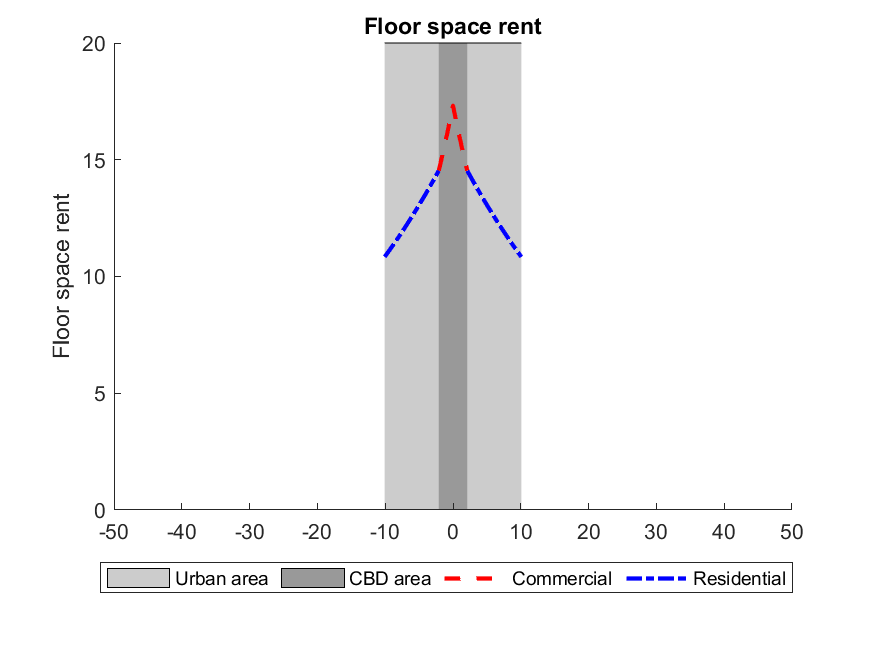
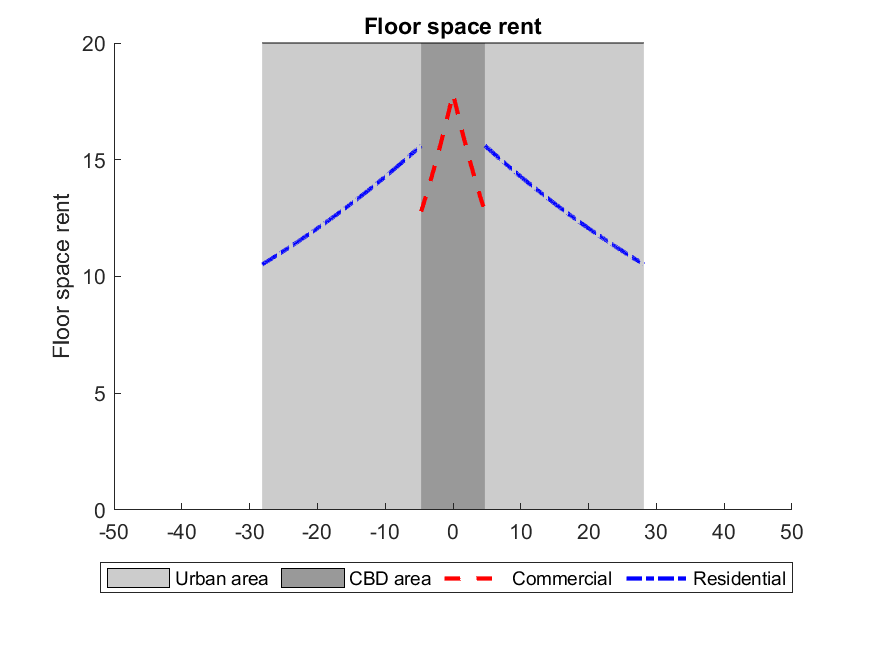
Tut_4_MATLAB Changed parameters to the ones that replicate Tut_3 results

Changed region(s): [[0.2777, 0.061, 0.7406, 0.7927]]

diff --git a/notebooks/Tut_4_MAAAADlab/PS_4.m b/notebooks/Tut_4_MAAAADlab/PS_4.m
@@ -2,29 +2,27 @@
 %% Part a) 
 % The following should simulate the test data, similar to BASE.dta
 
-
-
 % Set up the scalars 
 % Residential  Parameters
 
 alpha_R = 0.66;
 beta_R  = 0.00;
-tau_R   = 0.01;	
-omega_R = 0.1;
-theta_R = 0.5;
-c_R     = 1;		
+tau_R   = 0.005;	
+omega_R = 0.07;
+theta_R = 0.55;
+c_R     = 1.3;		
 a_bar_R = 1	;
-S_bar_R = 999;
+S_bar_R = 20;
 
 % Commercial parameters
 alpha_C = 0.85;
-beta_C  = 0.04;
+beta_C  = 0.03;
 tau_C   = 0.01;
-omega_C = 0.1;
+omega_C = 0.03;
 theta_C = 0.5;
-c_C     = 1;
-a_bar_C = 1.5;
-S_bar_C = 999;
+c_C     = 1.3;
+a_bar_C = 2;
+S_bar_C = 20;
 
 
 % Create the BASE data as a table
@@ -35,7 +33,7 @@ BASE              = table(x);
 BASE.D            = abs(x);
 BASE.y            = 2.5 * ones(height(BASE), 1);
 BASE.L            = 1000000 * ones(height(BASE), 1);
-BASE.r_a          = 100 * ones(height(BASE), 1);
+BASE.r_a          = 50 * ones(height(BASE), 1);
 BASE.a_x_C        = NaN(height(BASE), 1);
 BASE.a_x_R        = NaN(height(BASE), 1);
 BASE.a_rand_C     = 1 * ones(height(BASE), 1);
@@ -61,7 +59,7 @@ BASE.SHADE        = NaN(height(BASE), 1);
 BASE.SHADEU       = NaN(height(BASE), 1);
 
 
-openvar("BASE")
+% openvar("BASE")
 
 %%%%%% End of BASE creation 
 
@@ -80,14 +78,18 @@ params = struct( ...
 
 
 
+
+
+% [BASE,L_hat_demand, L_hat_supply, sL, sy, x0, x1] = SOLVER(BASE, params);
+
 % [BASE,L_hat_demand, L_hat_supply, sL, sy, x0, x1, iter_cnt] = WAGE(BASE, params);
 
 
 
 
-[BASE,L_hat_demand, L_hat_supply, sL, sy, x0, x1, iter_cnt] = FINDEQ(BASE, params);
+[BASE,L_hat_demand, L_hat_supply, sL, sy, x0, x1, obj_lab_table] = FINDEQ(BASE, params);
 
-openvar("BASE");
+ openvar("BASE");
 
 
 %% Plotting 
@@ -96,30 +98,14 @@ thisFolder = pwd;
 disp(thisFolder)
 
 GHEIGHT(BASE);
-saveas(gcf, fullfile(thisFolder, 'GHEIGHT.png'));
+saveas(gcf, fullfile(thisFolder, 'GHEIGHT_whl.png'));
 
 
 GBIDRENT(BASE);
-saveas(gcf, 'GBIDRENT.png');
+saveas(gcf, 'GBIDRENT_whl.png');
 
 GLANDRENT(BASE);
-saveas(gcf, 'GLANDRENT.png');
-
-
-
-
-
-
-
-
-
-
-
-
-
-
-
-
+saveas(gcf, 'GLANDRENT_whl.png');
 
 
 

diff --git a/notebooks/Tut_4_MAAAADlab/FINDEQ.m b/notebooks/Tut_4_MAAAADlab/FINDEQ.m
@@ -11,9 +11,9 @@ while obj_lab > 0.01
 
     % This I would just do bc. stata also does it, from my Understanding can
     % delete this
-    % [BASE,L_hat_demand,L_hat_supply, sL, sy, x0, x1] = SOLVER(BASE, params);
+    [BASE,L_hat_demand,L_hat_supply, sL, sy, x0, x1] = SOLVER(BASE, params);
 
-    [BASE,L_hat_demand, L_hat_supply, sL, sy, x0, x1, iter_cnt] = WAGE(BASE, params);
+    [BASE,L_hat_demand, L_hat_supply, sL, sy, x0, x1, iter_cnt] =    WAGE(BASE, params);
 
 
     % City Sanity check 
@@ -23,7 +23,7 @@ while obj_lab > 0.01
     
     % Update the objective function
     obj_lab = abs( (sL ./ (0.5 .* (L_hat_supply + L_hat_demand))) -1); 
-
+    fprintf('Current objective value (FINDEQ) is %.6f\n', obj_lab);
     % Update guess of total employment with average of old guess and
     % updated demand and supply from model 
     BASE.L = 0.5 .* BASE.L + 0.5*0.5 .* (L_hat_supply + L_hat_demand);

diff --git a/notebooks/Tut_4_MAAAADlab/WAGE.m b/notebooks/Tut_4_MAAAADlab/WAGE.m
@@ -17,7 +17,7 @@ if iter_cnt == 0 && obj_int < 1e-6 % 1e-6 is basically 0, used bc. of floating p
     obj_int = tolerance + 0.2;
 end 
 
-while obj_int > tolerance
+while (obj_int > tolerance) & iter_cnt < 100
     % Find wage adjust factor 
     if L_hat_supply == 0.0000 
         y_factor = 1.2; % No demand -> wage up 20%
@@ -37,7 +37,8 @@ while obj_int > tolerance
     [BASE,L_hat_demand,L_hat_supply, sL, sy, x0, x1] = SOLVER(BASE, params);
     
     % Print the value of the objective function for this run
-    disp(obj_int);
+    % disp(obj_int);
+    fprintf('Current objective value (WAGE) is %.6f\n', obj_int);
     % Update objective function
     obj_int = abs((L_hat_demand + 0.0001) / (L_hat_supply + 0.0001) - 1);
 
